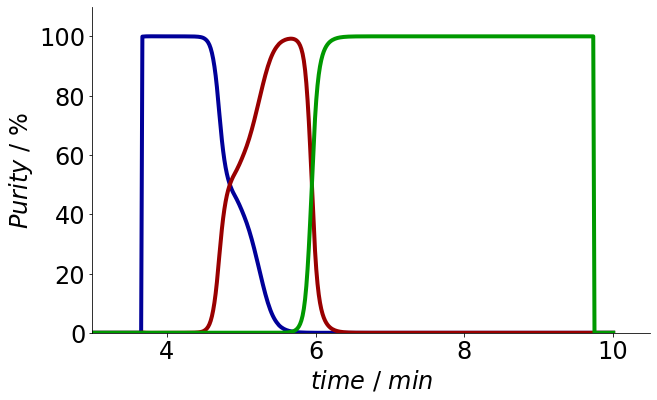
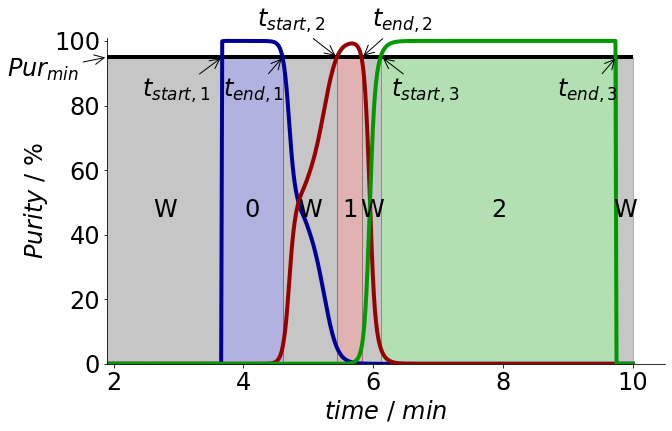
show initial values in purity profile

diff --git a/fractionation_demo/fractionation_demo.py b/fractionation_demo/fractionation_demo.py
@@ -75,4 +75,4 @@ if __name__ == '__main__':
             batch_ternary_sim_results.chromatograms,
             batch_ternary.process_meta,
             purity_required=0.95)
-    batch_ternary_frac.save(case_dir, start=3)
+    batch_ternary_frac.save(case_dir, start=1.9)
